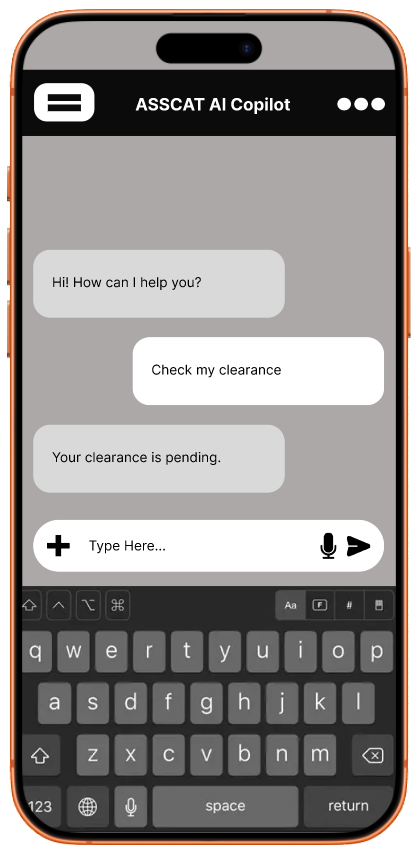
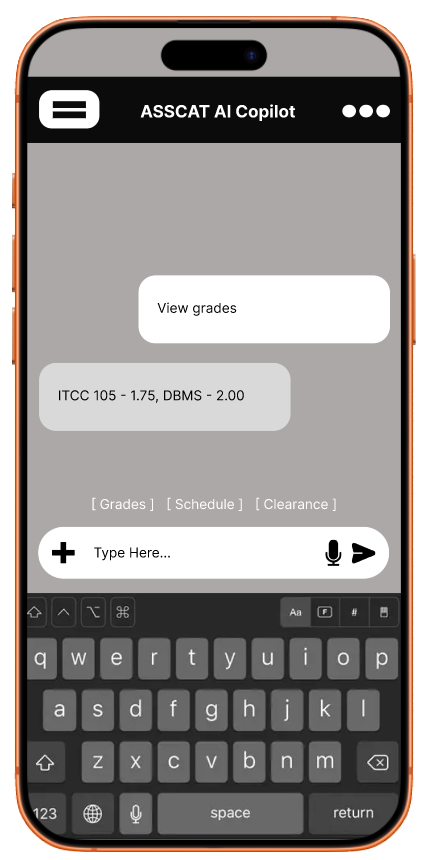
Final update: pitch, wireframe, and Dart logic complete

diff --git a/copilot_engine.dart b/copilot_engine.dart
@@ -1,18 +1,24 @@
+import 'dart:io';
+
 void main() {
-  String userIntent = "check clearance";
   bool isInternetConnected = true;
 
+  print("🤖 ASSCAT AI Copilot");
+  print("Type your request (view grades / class schedule / check clearance):");
+
+  String? userIntent = stdin.readLineSync();
+
   if (!isInternetConnected) {
-    print("⚠ You are offline. Showing saved emergency data...");
-  } 
-  else if (userIntent == "check clearance") {
-    print("✅ Your clearance is pending approval.");
+    print("⚠ Offline Mode: Showing saved emergency data...");
   } 
   else if (userIntent == "view grades") {
-    print("📊 Your latest grades are available in the system.");
+    print("📊 Your grades: ITCC 105 - 1.75, DBMS - 2.00");
   } 
   else if (userIntent == "class schedule") {
     print("📅 Your next class is ITCC 105 at 10:00 AM.");
+  } 
+  else if (userIntent == "check clearance") {
+    print("✅ Your clearance is pending approval.");
   } 
   else {
     print("🤖 Sorry, I don't understand your request.");

diff --git a/pitch.md b/pitch.md
@@ -1,13 +1,13 @@
-# ASSCAT Campus AI Copilot Pitch
+# ASSCAT Campus AI Copilot
 
 ## Problem Statement
-The old student portal is inefficient because it uses too many menus and is difficult to navigate. Students waste time clicking multiple pages just to find simple information like schedules, grades, or clearance status.
+The current ASSCAT student portal is inefficient because it relies on multiple menus and complex navigation. Students often find it difficult to locate important information such as grades, class schedules, and clearance status. This results in wasted time and a poor user experience.
 
 ## Industry 5.0 Justification
-The AI Copilot empowers students by assisting them in real-time instead of replacing human interaction. It enhances productivity by guiding users, answering questions instantly, and reducing confusion while still allowing human support when needed.
+The ASSCAT AI Copilot follows Industry 5.0 by focusing on human-centered technology. Instead of replacing human services, the AI assists students by providing quick and accurate answers. It improves productivity while still allowing human interaction when necessary.
 
 ## Agile User Stories
 
-1. As a student, I want an AI chat assistant, so that I can quickly ask about my grades and schedule.
-2. As a student, I want voice input, so that I can interact with the system faster without typing.
-3. As a student, I want offline emergency access, so that I can still get important information even without internet.
+1. As a student, I want an AI assistant that can answer my questions instantly, so that I can avoid navigating multiple pages.
+2. As a student, I want to use chat or voice input, so that I can interact with the system easily.
+3. As a student, I want offline access to important data, so that I can still use the system without internet.
